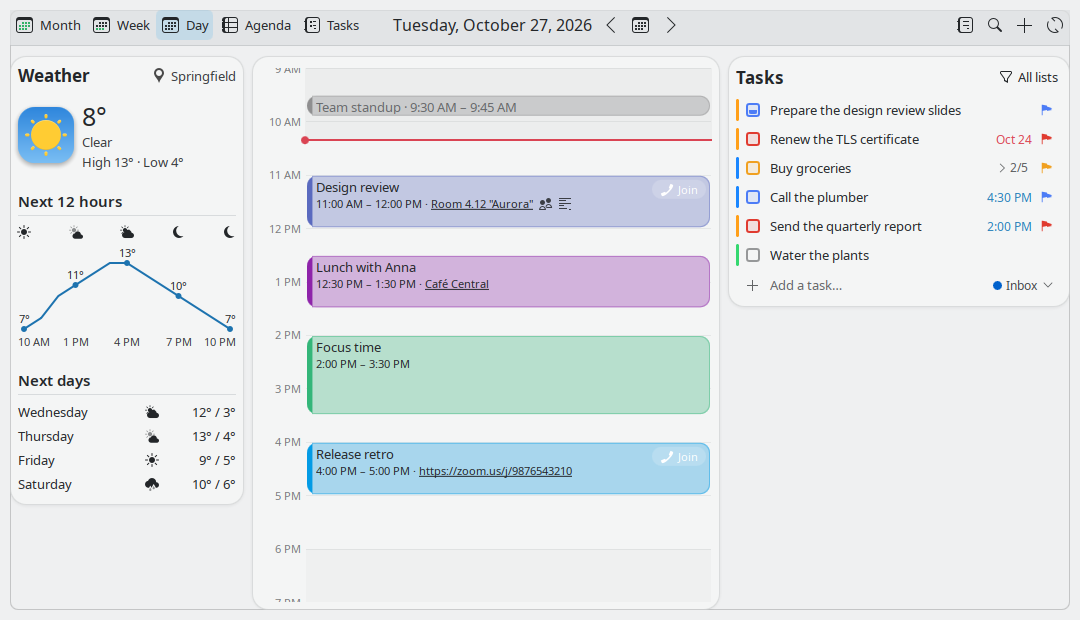
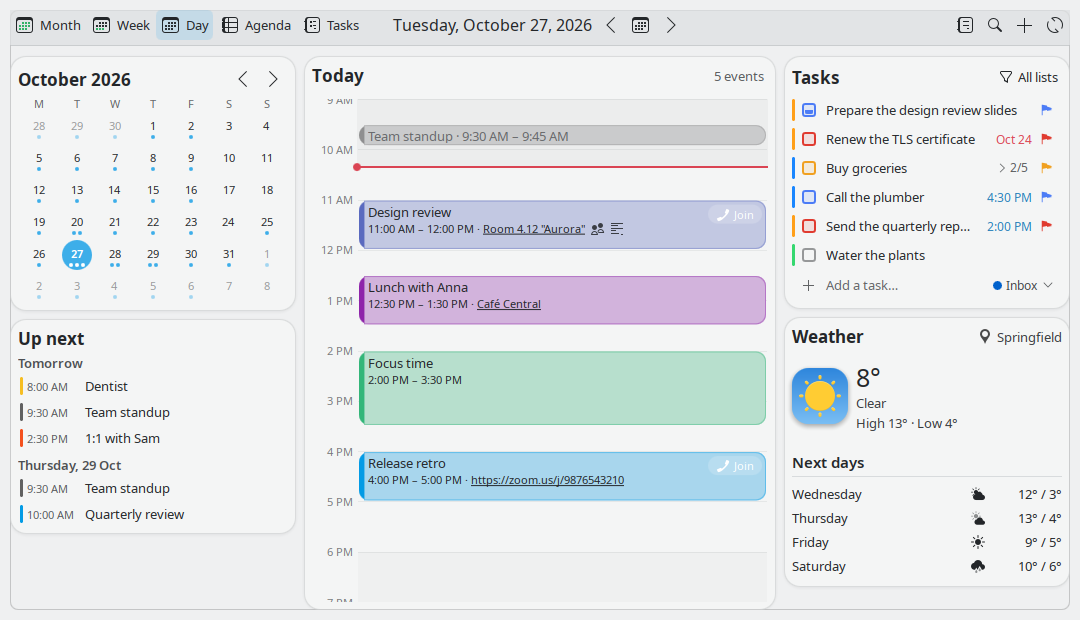
Release 1.7.0

diff --git a/docs/kde-store.md b/docs/kde-store.md
@@ -27,7 +27,7 @@ version, the changelog and the file for each release.
 
 **Version**
 
-    1.6.0
+    1.7.0
 
 **License**
 
@@ -103,31 +103,23 @@ Source and install from source: https://github.com/divinae/plasma-applet-eventca
 Support the development: https://ko-fi.com/divinae4535
 ```
 
-**Changelog (1.6.0)**
+**Changelog (1.7.0)**
 
 ```
-Tasks
-- Mark a task as in progress (right-click menu or its details): a half-filled check, first in its section, an "In progress" filter
-- Right-click menu: set the priority (TickTick) and the due date (today, tomorrow, next week, none)
-- The priority also shows as a colored flag on the task's row
-- After a restart, cached tasks show right away
-
 Day view
-- A new weather card: the location, the current weather on a sky-colored tile, today's high and low, clearer titles, more contrast in a light theme
+- A small month to go to another day, with dots under the days that have events (more on busier days)
+- Up next: the next few events of the coming days
+- A title over the hours (Today, Tomorrow, … and the number of events); "No more events today" with a link to the next event
+- Tasks and weather on the right; each panel can be turned off (Settings > Views > Day view shows)
 
-Popup
-- A thin scroll bar; the hour grid and the agenda reach the card's edge
-- Offline: Retry Now shows it's retrying, and the shown tasks stay meanwhile
-
-Settings
-- Tidier Views, Events and Clock pages
-- Fixed: blank Clock and Events pages with older Kirigami Addons (Debian 13 / Plasma 6.3)
+Fixes
+- Dates and times in the system's language everywhere (some were in English)
 ```
 
 ## Files
 
-- **Product file:** `eventcalendar-v1.6.0-plasma6.0.plasmoid` from the
-  [v1.6.0 release](https://github.com/divinae/plasma-applet-eventcalendar/releases/tag/v1.6.0),
+- **Product file:** `eventcalendar-v1.7.0-plasma6.0.plasmoid` from the
+  [v1.7.0 release](https://github.com/divinae/plasma-applet-eventcalendar/releases/tag/v1.7.0),
   or `./build`.
 - **Screenshots** (`docs/screenshots/`, mock data; the store takes at most 5), in this order:
   1. `month.png` (the cover)

diff --git a/ReadMe.md b/ReadMe.md
@@ -62,7 +62,7 @@ All shots use mock data.
 | | |
 |---|---|
 | ![Month view](docs/screenshots/month.png) **Month**: event titles in the days | ![Week view](docs/screenshots/week.png) **Week**: hour grid, all-day events, weather |
-| ![Day view](docs/screenshots/today.png) **Day**: weather, hours with Join buttons, the day's tasks | ![Tasks](docs/screenshots/tasks.png) **Tasks**: smart filters, priorities, in progress |
+| ![Day view](docs/screenshots/today.png) **Day**: a small month, Up next, the hours, tasks and weather | ![Tasks](docs/screenshots/tasks.png) **Tasks**: smart filters, priorities, in progress |
 | ![Agenda](docs/screenshots/agenda.png) **Agenda**: each day a card | ![Event details](docs/screenshots/event-details.png) **Event details**: location, guests, Join |
 | ![Google Calendar settings](docs/screenshots/settings-google.png) **Settings**: accounts and calendars | ![View settings](docs/screenshots/settings-views.png) **Settings**: views and appearance |
 
@@ -74,9 +74,9 @@ Download the `.plasmoid` file from the [latest release](https://github.com/divin
 then:
 
 ```
-kpackagetool6 -t Plasma/Applet -i eventcalendar-v1.6.0-plasma6.0.plasmoid
+kpackagetool6 -t Plasma/Applet -i eventcalendar-v1.7.0-plasma6.0.plasmoid
 # or, to upgrade an installed Event Calendar:
-kpackagetool6 -t Plasma/Applet -u eventcalendar-v1.6.0-plasma6.0.plasmoid
+kpackagetool6 -t Plasma/Applet -u eventcalendar-v1.7.0-plasma6.0.plasmoid
 ```
 
 Restart Plasma (`systemctl --user restart plasma-plasmashell`) and add **Event Calendar** to a

diff --git a/Changelog.md b/Changelog.md
@@ -1,3 +1,14 @@
+## v1.7.0 - October 27 2026
+
+### Day view
+* A small month on the left to go to another day, with dots under the days that have events (more dots on busier days).
+* Up next under it: the next few events of the coming days; a click shows that day.
+* The hours have a title (Today, Tomorrow, … and the number of events); when nothing is left today, "No more events today" and a link to the next event.
+* The tasks and the weather on the right; each panel can be turned off in Settings > Views > Day view shows.
+
+### Fixes
+* Dates and times are in the system's language everywhere (they were in English: "Tue, 27 Oct" with a Polish locale, and dates like "2026-10-27"). Thanks to testitquickly's fix in ALikesToCode's fork for pointing it out.
+
 ## v1.6.0 - October 27 2026
 
 ### Tasks
